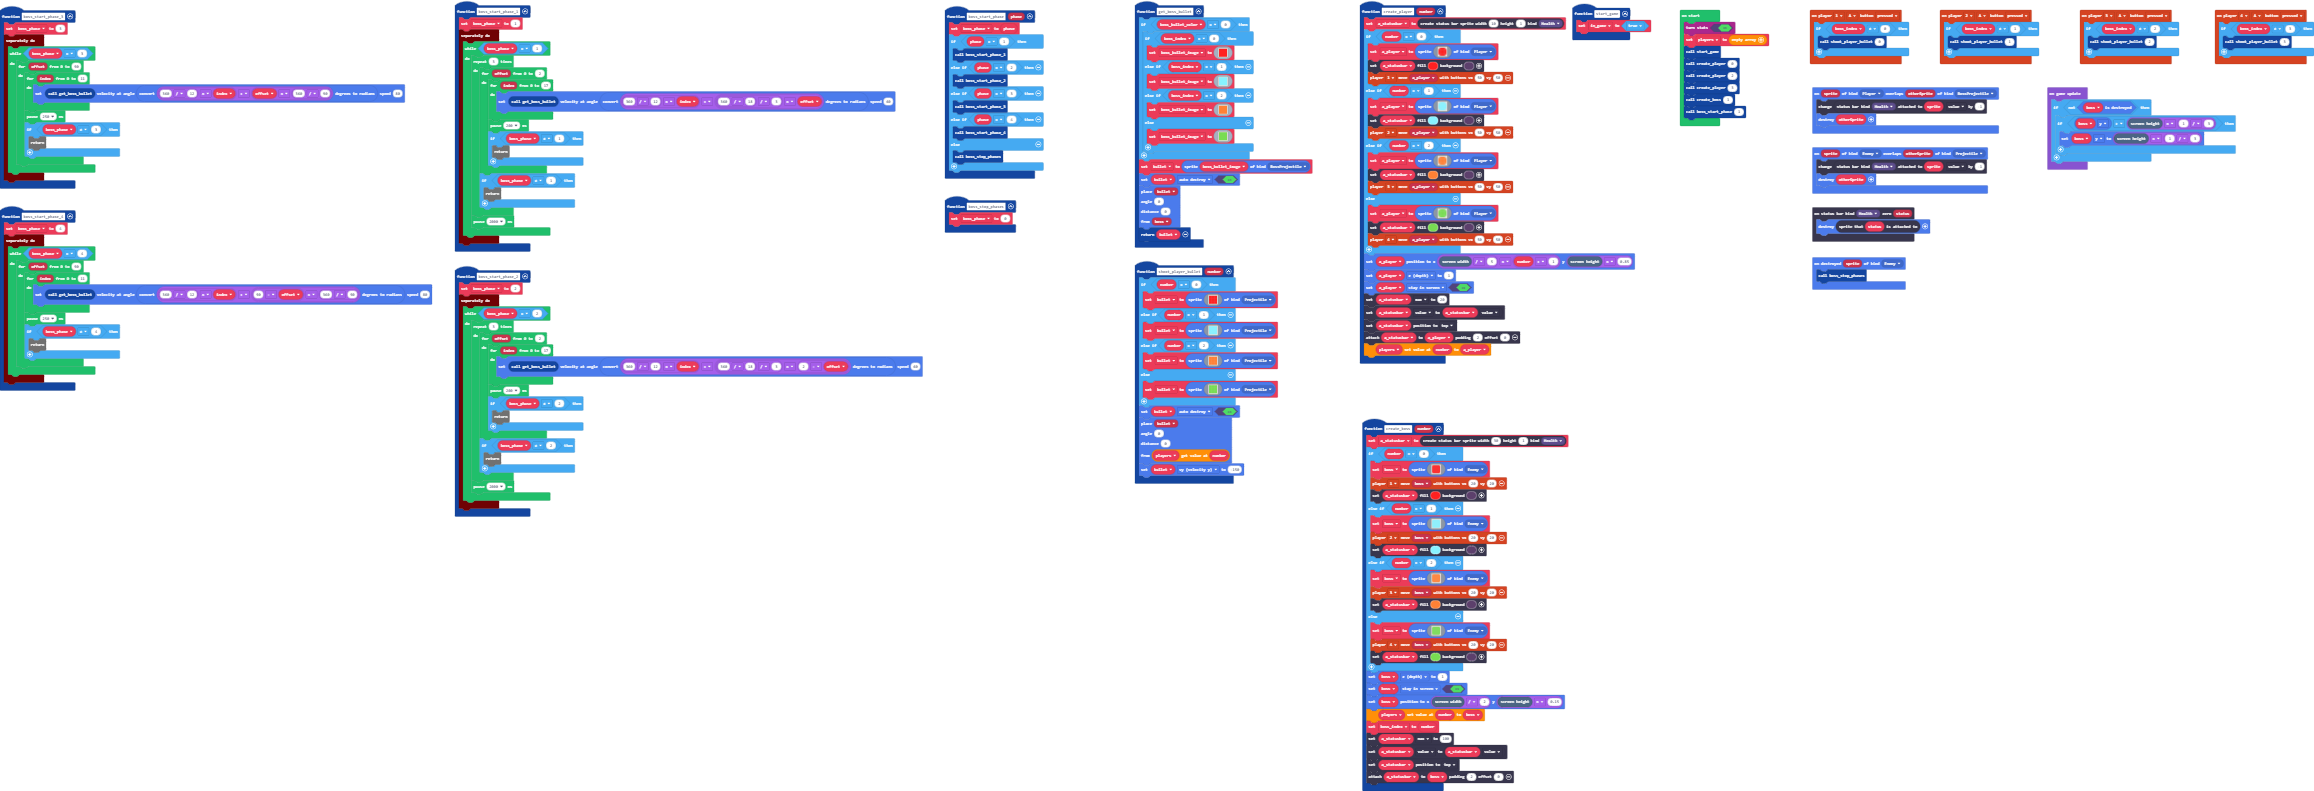
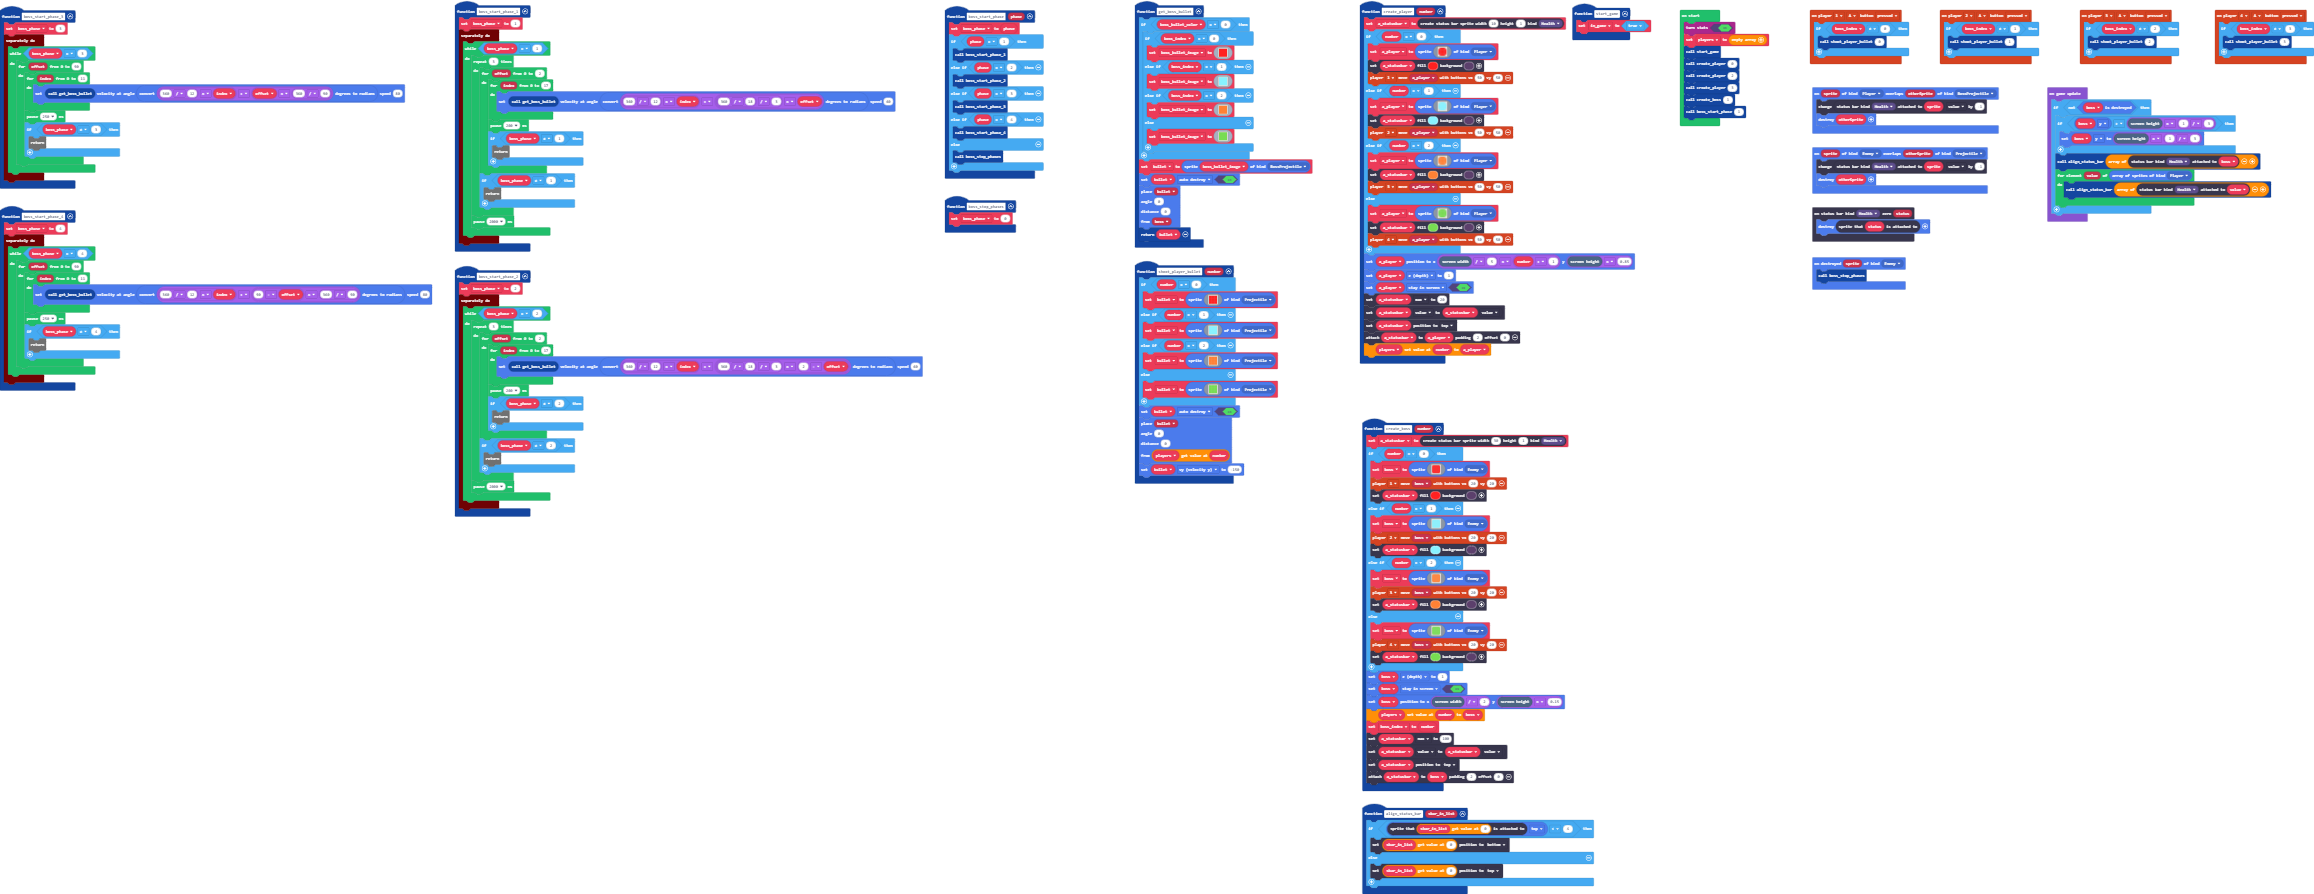
Automatically move status bars to fit in screen

Changed region(s): [[0.0, 0.0, 1.0, 1.0]]

diff --git a/main.ts b/main.ts
@@ -214,6 +214,13 @@ function create_player (number: number) {
     a_statusbar.attachToSprite(a_player, 2, 0)
     players[number] = a_player
 }
+function align_status_bar (sbar_in_list: StatusBarSprite[]) {
+    if (sbar_in_list[0].spriteAttachedTo().top < 4) {
+        sbar_in_list[0].positionDirection(CollisionDirection.Bottom)
+    } else {
+        sbar_in_list[0].positionDirection(CollisionDirection.Top)
+    }
+}
 function boss_start_phase_3 () {
     boss_phase = 3
     timer.background(function () {
@@ -251,6 +258,10 @@ game.onUpdate(function () {
     if (!(spriteutils.isDestroyed(boss))) {
         if (boss.y > scene.screenHeight() * (1 / 3)) {
             boss.y = scene.screenHeight() * (1 / 3)
+        }
+        align_status_bar([statusbars.getStatusBarAttachedTo(StatusBarKind.Health, boss)])
+        for (let value of sprites.allOfKind(SpriteKind.Player)) {
+            align_status_bar([statusbars.getStatusBarAttachedTo(StatusBarKind.Health, value)])
         }
     }
 })
